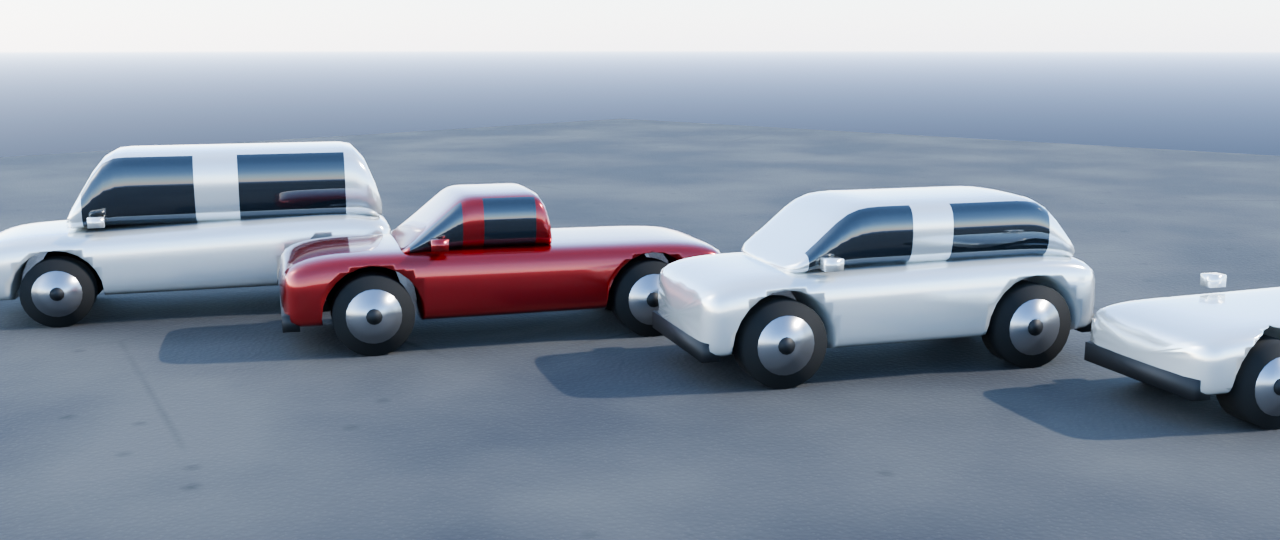
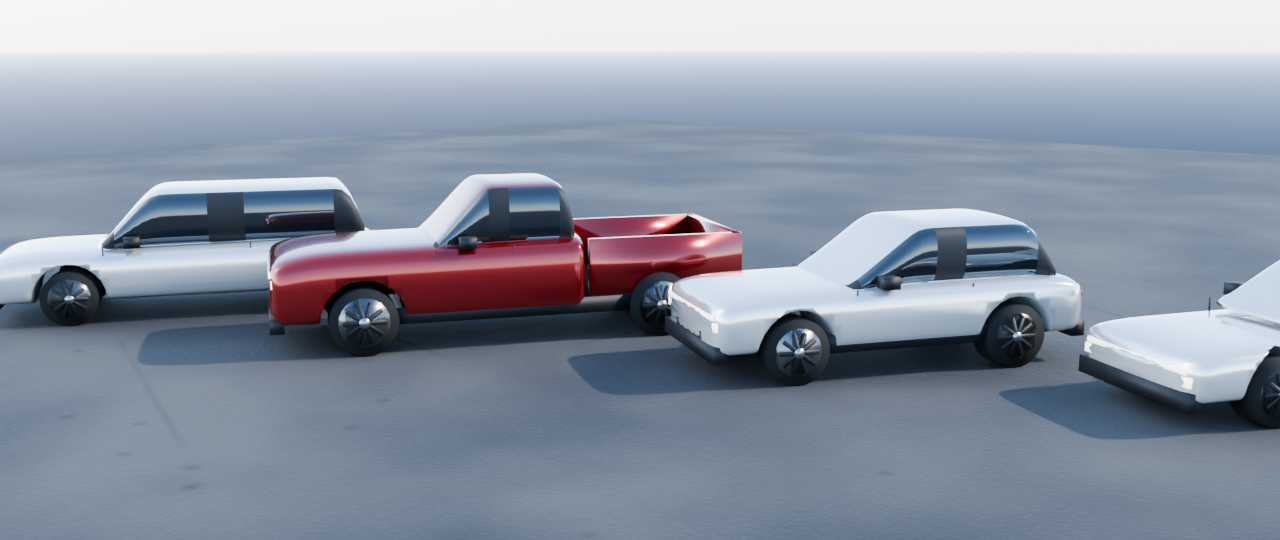
Cars rebuilt from real 2025-26 proportions (midsize sedan, compact crossover, full-size crew-cab pickup with open bed, minivan) with current design traits: full-width LED light bars, flush handles, blacked-out pillars, cladding, large low-profile five-spoke wheels
Claude-Session: https://claude.ai/code/session_01PWmpu53kThn7KFGp88wUgC

diff --git a/costa-verde/tools/blender/realism.py b/costa-verde/tools/blender/realism.py
@@ -376,11 +376,21 @@ CAR_COLOURS = [((236, 236, 232), 25), ((24, 24, 26), 20), ((128, 130, 132), 16),
 
 # Smooth cars: lofted rounded cross-sections + subdivision, cabin as its own loft (glass between pillars),
 # wheel arches cut by a boolean. Dimensions in studs (~3 per metre). x along the car (+x = front).
-CAR_SPECS = {  # length, width, body top (hood..tail), cabin x0..x1 (rear..front), roof z, belt z, wheelbase half, wheel r
-    "sedan": dict(L=14.4, W=5.6, hood=3.0, tail=3.2, cab=(-4.4, 3.6), roof=4.6, belt=3.2, wb=4.4, wr=1.3),
-    "suv": dict(L=14.8, W=6.0, hood=3.7, tail=3.9, cab=(-6.8, 4.4), roof=5.9, belt=3.9, wb=4.6, wr=1.45),
-    "pickup": dict(L=16.8, W=6.1, hood=3.7, tail=3.6, cab=(-1.6, 4.2), roof=5.6, belt=3.8, wb=5.2, wr=1.45),
-    "van": dict(L=16.4, W=6.2, hood=3.6, tail=4.1, cab=(-7.9, 4.8), roof=6.8, belt=4.0, wb=5.0, wr=1.35),
+def _spec(L_mm, W_mm, H_mm, WB_mm, wheel_mm, clear_mm, hood, belt, cab, fastback=0.0, clad=False):
+    """Real dimensions (mm) -> studs at 3 per metre. hood / belt as fractions of height; cab = (rear, front) as
+    fractions of length from the tail."""
+    k = 0.003
+    L, H = L_mm * k, H_mm * k
+    return dict(L=L, W=W_mm * k, roof=H, hood=H * hood, tail=H * hood * 1.05, belt=H * belt, wb=WB_mm * k / 2, wr=wheel_mm * k / 2,
+                clear=clear_mm * k, cab=(-L / 2 + L * cab[0], -L / 2 + L * cab[1]), fastback=fastback, clad=clad)
+
+
+# Proportions of the best-selling 2025-26 US types (manufacturer / spec-site figures; sedan and minivan typical).
+CAR_SPECS = {
+    "sedan": _spec(4915, 1840, 1445, 2825, 690, 140, 0.56, 0.66, (0.2, 0.68), fastback=3.4),   # midsize sedan, fastback roof
+    "suv": _spec(4650, 1860, 1690, 2700, 740, 210, 0.6, 0.62, (0.06, 0.66), clad=True),       # compact crossover
+    "pickup": _spec(5884, 2030, 1995, 3694, 820, 240, 0.64, 0.64, (0.36, 0.68), clad=True),  # full-size crew-cab pickup
+    "van": _spec(5170, 1995, 1740, 3060, 720, 160, 0.56, 0.6, (0.04, 0.73)),                  # minivan
 }
 
 
@@ -416,24 +426,28 @@ def _car_mesh(kind):
     half = L / 2
     bm = bmesh.new()
 
+    lo = sp["clear"] + 0.35
+
     def body_top(x):  # hood at the front, tail at the back, smooth blend, rounded down at both ends
         t = (x + half) / L
         top = sp["tail"] + (sp["hood"] - sp["tail"]) * (3 * t * t - 2 * t ** 3)
         end = 1 - (abs(x) / half) ** 10
-        return 1.0 + (top - 1.0) * (0.8 + 0.2 * end)
+        return lo + (top - lo) * (0.82 + 0.18 * end)
 
     def body_ring(x):
         e = max(0.05, 1 - (abs(x) / half) ** 12) ** 0.5  # crisp nose / tail in plan
         top = body_top(x)
-        return _superellipse(0, (top + 1.0) / 2, W / 2 * (0.9 + 0.1 * e), (top - 1.0) / 2, 20, 5.5)  # flat sides, tight corners
-    stations = [-half + L * i / 25 for i in range(26)]
+        return _superellipse(0, (top + lo) / 2, W / 2 * (0.92 + 0.08 * e), (top - lo) / 2, 20, 5.5)  # flat sides, tight corners
+    x_start = sp["cab"][0] - 0.3 if kind == "pickup" else -half  # pickup: the bed is built separately
+    stations = [x_start + (half - x_start) * i / 25 for i in range(26)]
     _loft(bm, stations, body_ring, lambda i, j, n: 0)
     cx0, cx1 = sp["cab"]
     roof, belt = sp["roof"], sp["belt"]
-    rake_f, rake_r = (2.4, 1.6) if kind != "van" else (1.6, 0.3)
+    rake_f = {"van": 2.0, "pickup": 2.2}.get(kind, 2.8)
+    rake_r = sp["fastback"] or {"van": 0.3, "pickup": 0.4}.get(kind, 1.2)
 
     def cab_ring(x):
-        rise = min(1.0, (cx1 - x) / rake_f, (x - cx0) / rake_r) if kind != "pickup" else min(1.0, (cx1 - x) / rake_f, (x - cx0) / 0.4)
+        rise = min(1.0, (cx1 - x) / rake_f, (x - cx0) / rake_r)
         h = belt - 0.3 + (roof - belt + 0.3) * max(0.05, rise)
         return _superellipse(0, (h + belt - 0.3) / 2, W / 2 * 0.84, (h - belt + 0.3) / 2, 16, 4.5)
     cst = [cx0 + (cx1 - cx0) * i / 15 for i in range(16)]
@@ -443,32 +457,53 @@ def _car_mesh(kind):
         if i < 0:
             return 0
         top = n // 4 - 2 <= j <= n // 4 + 2  # ring index around the top of the superellipse (z max near k/4)
-        return 0 if top or i in pillars else 1
+        if top:
+            return 0
+        return 2 if i in pillars else 1  # blacked-out pillars: the 'floating roof' look
     _loft(bm, cst, cab_ring, cab_mi)
     return bm
 
 
 def _car_parts(kind, coll, mats):
-    """Separate small parts: wheels, lights, grille, bumpers, mirrors, plate."""
+    """Wheels, full-width LED light bars, grille, bumpers, flush handles, door seams, cladding, mirrors, plate, pickup bed."""
     sp = CAR_SPECS[kind]
     L, W, wb, wr = sp["L"], sp["W"], sp["wb"], sp["wr"]
     bm = bmesh.new()
+    side_y = W / 2 * 0.92
     for cx in (-wb, wb):
         for side in (-1, 1):
-            _cyl(bm, (cx, side * (W / 2 - 0.6), wr), wr, wr, 1.1, 28, 0, "Y")  # tyre
-            _cyl(bm, (cx, side * (W / 2 - 0.05), wr), wr * 0.68, wr * 0.68, 0.06, 24, 1, "Y")  # rim face
-            _cyl(bm, (cx, side * (W / 2 + 0.0), wr), wr * 0.2, wr * 0.2, 0.08, 12, 4, "Y")  # hub
+            _cyl(bm, (cx, side * (W / 2 - 0.55), wr), wr, wr, 1.0, 28, 0, "Y")  # tyre
+            _cyl(bm, (cx, side * (W / 2 - 0.08), wr), wr * 0.74, wr * 0.74, 0.06, 24, 1, "Y")  # large low-profile rim
+            for k in range(5):  # five twin spokes
+                a = 2 * math.pi * k / 5
+                vs = _cube(bm, (cx, side * (W / 2 - 0.02), wr), (wr * 1.25, 0.05, wr * 0.13), 4)
+                bmesh.ops.rotate(bm, verts=vs, cent=(cx, 0, wr), matrix=__import__("mathutils").Matrix.Rotation(a, 3, "Y"))
+            _cyl(bm, (cx, side * (W / 2 - 0.01), wr), wr * 0.16, wr * 0.16, 0.08, 12, 1, "Y")  # hub
     h = L / 2
-    front_top = 1.0 + (sp["hood"] - 1.0) * 0.8
-    rear_top = 1.0 + (sp["tail"] - 1.0) * 0.8
-    for side in (-1, 1):  # lights and mirrors sit into the bodywork
-        _cube(bm, (h - 0.55, side * W * 0.3, front_top - 0.45), (0.5, W * 0.2, 0.42), 2)  # headlight
-        _cube(bm, (-h + 0.5, side * W * 0.32, rear_top - 0.6), (0.45, W * 0.18, 0.5), 3)  # taillight
-        _cube(bm, (sp["cab"][1] - 1.4, side * (W / 2 * 0.86 + 0.25), sp["belt"] + 0.1), (0.6, 0.5, 0.4), 5)  # mirror, on the door at the A-pillar
-    _cube(bm, (h - 0.45, 0, front_top - 0.9), (0.4, W * 0.42, 0.7), 4)  # grille
-    _cube(bm, (h - 0.35, 0, 1.3), (0.6, W * 0.88, 0.6), 4)  # bumpers
-    _cube(bm, (-h + 0.35, 0, 1.35), (0.6, W * 0.88, 0.6), 4)
-    _cube(bm, (-h + 0.08, 0, 2.2), (0.06, 1.6, 0.7), 6)  # plate
+    front_top = sp["clear"] + 0.35 + (sp["hood"] - sp["clear"] - 0.35) * 0.82
+    rear_top = sp["clear"] + 0.35 + (sp["tail"] - sp["clear"] - 0.35) * 0.82
+    _cube(bm, (h - 0.15, 0, front_top - 0.35), (0.12, W * 0.8, 0.16), 2)  # full-width LED light bar
+    _cube(bm, (-h + 0.15, 0, rear_top - 0.4), (0.12, W * 0.84, 0.18), 3)  # full-width tail light bar
+    for side in (-1, 1):
+        _cube(bm, (h - 0.3, side * W * 0.36, front_top - 0.65), (0.3, W * 0.14, 0.28), 2)  # slim headlights
+        _cube(bm, (sp["cab"][1] - 1.4, side * (W / 2 * 0.86 + 0.25), sp["belt"] + 0.1), (0.6, 0.5, 0.4), 4)  # mirror
+        for xd in (sp["cab"][0] + 0.25 * (sp["cab"][1] - sp["cab"][0]), sp["cab"][0] + 0.62 * (sp["cab"][1] - sp["cab"][0])):
+            _cube(bm, (xd, side * (side_y + 0.03), sp["belt"] - 0.55), (0.9, 0.04, 0.16), 4)  # flush door handle
+        for xd in (sp["cab"][0] + 0.45 * (sp["cab"][1] - sp["cab"][0]), sp["cab"][1] - 0.3):
+            _cube(bm, (xd, side * (side_y + 0.02), (sp["clear"] + 0.6 + sp["belt"]) / 2), (0.05, 0.03, sp["belt"] - sp["clear"] - 0.8), 4)  # door seams
+        if sp["clad"]:  # black lower cladding along the sills
+            _cube(bm, (0, side * (side_y + 0.02), sp["clear"] + 0.65), (L * 0.6, 0.08, 0.6), 4)
+    _cube(bm, (h - 0.25, 0, front_top - 1.25), (0.35, W * (0.62 if kind == "pickup" else 0.45), 0.9 if kind == "pickup" else 0.55), 4)  # grille
+    _cube(bm, (h - 0.3, 0, sp["clear"] + 0.5), (0.5, W * 0.9, 0.55), 4)  # lower bumpers
+    _cube(bm, (-h + 0.3, 0, sp["clear"] + 0.55), (0.5, W * 0.9, 0.55), 4)
+    _cube(bm, (-h + 0.06, 0, rear_top - 1.1), (0.05, 1.4, 0.6), 6)  # plate
+    if kind == "pickup":  # open bed: floor, side walls, tailgate
+        x0, x1 = -h, sp["cab"][0] - 0.3
+        top = sp["belt"]
+        _cube(bm, ((x0 + x1) / 2, 0, sp["clear"] + 1.0), (x1 - x0, W * 0.92, 0.5), 4)
+        for side in (-1, 1):
+            _cube(bm, ((x0 + x1) / 2, side * W * 0.44, (sp["clear"] + 1.0 + top) / 2), (x1 - x0, 0.35, top - sp["clear"] - 1.0), 5)
+        _cube(bm, (x0 + 0.2, 0, (sp["clear"] + 1.0 + top) / 2), (0.35, W * 0.92, top - sp["clear"] - 1.0), 5)
     o = _obj(coll.name + "_parts", bm, [mats["tyre"], mats["rim"], mats["head"], mats["tail"], mats["plastic"], mats["paint"], mats["plate"]], coll)
     return o
 
@@ -488,17 +523,18 @@ def car_models():
             paint = mat_simple(f"paint_{kind}{v}", col, 0.18, 0.6)
             paint.node_tree.nodes["Principled BSDF"].inputs["Coat Weight"].default_value = 1.0
             coll = _collection(f"car_{kind}_{v}")
-            body = _obj(f"car_{kind}_{v}", _car_mesh(kind), [paint, glass], coll)
+            body = _obj(f"car_{kind}_{v}", _car_mesh(kind), [paint, glass, base["plastic"]], coll)
             sub = body.modifiers.new("smooth", "SUBSURF")
             sub.levels, sub.render_levels = 1, 1
             cut = bmesh.new()  # wheel-arch cutters (hidden), applied as a boolean
             for cx in (-sp["wb"], sp["wb"]):
-                _cyl(cut, (cx, 0, sp["wr"]), sp["wr"] + 0.35, sp["wr"] + 0.35, sp["W"] + 2, 24, 0, "Y")
+                _cyl(cut, (cx, 0, sp["wr"]), sp["wr"] + 0.3, sp["wr"] + 0.3, sp["W"] + 2, 24, 0, "Y")
             cutter = _obj(f"car_{kind}_{v}_arches", cut, [], coll)
             cutter.hide_render = True
             cutter.display_type = "WIRE"
             bo = body.modifiers.new("arches", "BOOLEAN")
             bo.operation, bo.object, bo.solver = "DIFFERENCE", cutter, "EXACT"
+            bo.use_self, bo.use_hole_tolerant = True, True  # body and cabin lofts overlap; keep both
             _car_parts(kind, coll, dict(base, paint=paint))
             models.append(coll)
     return models
